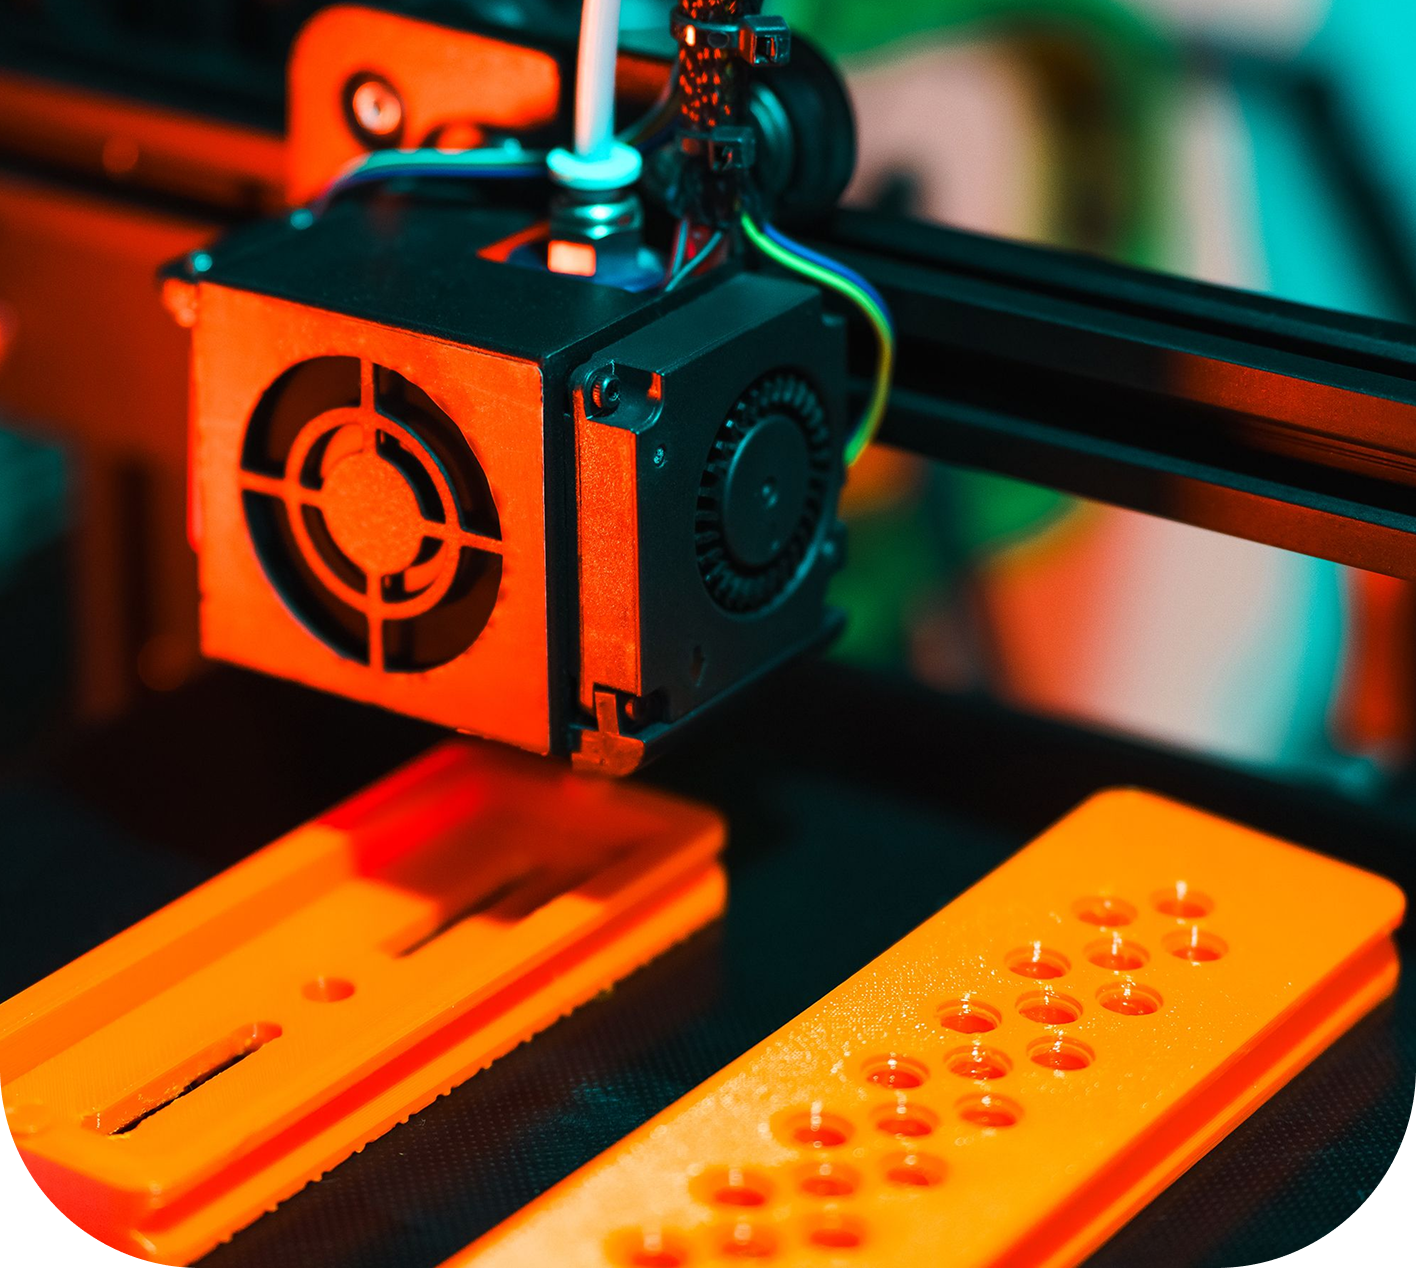
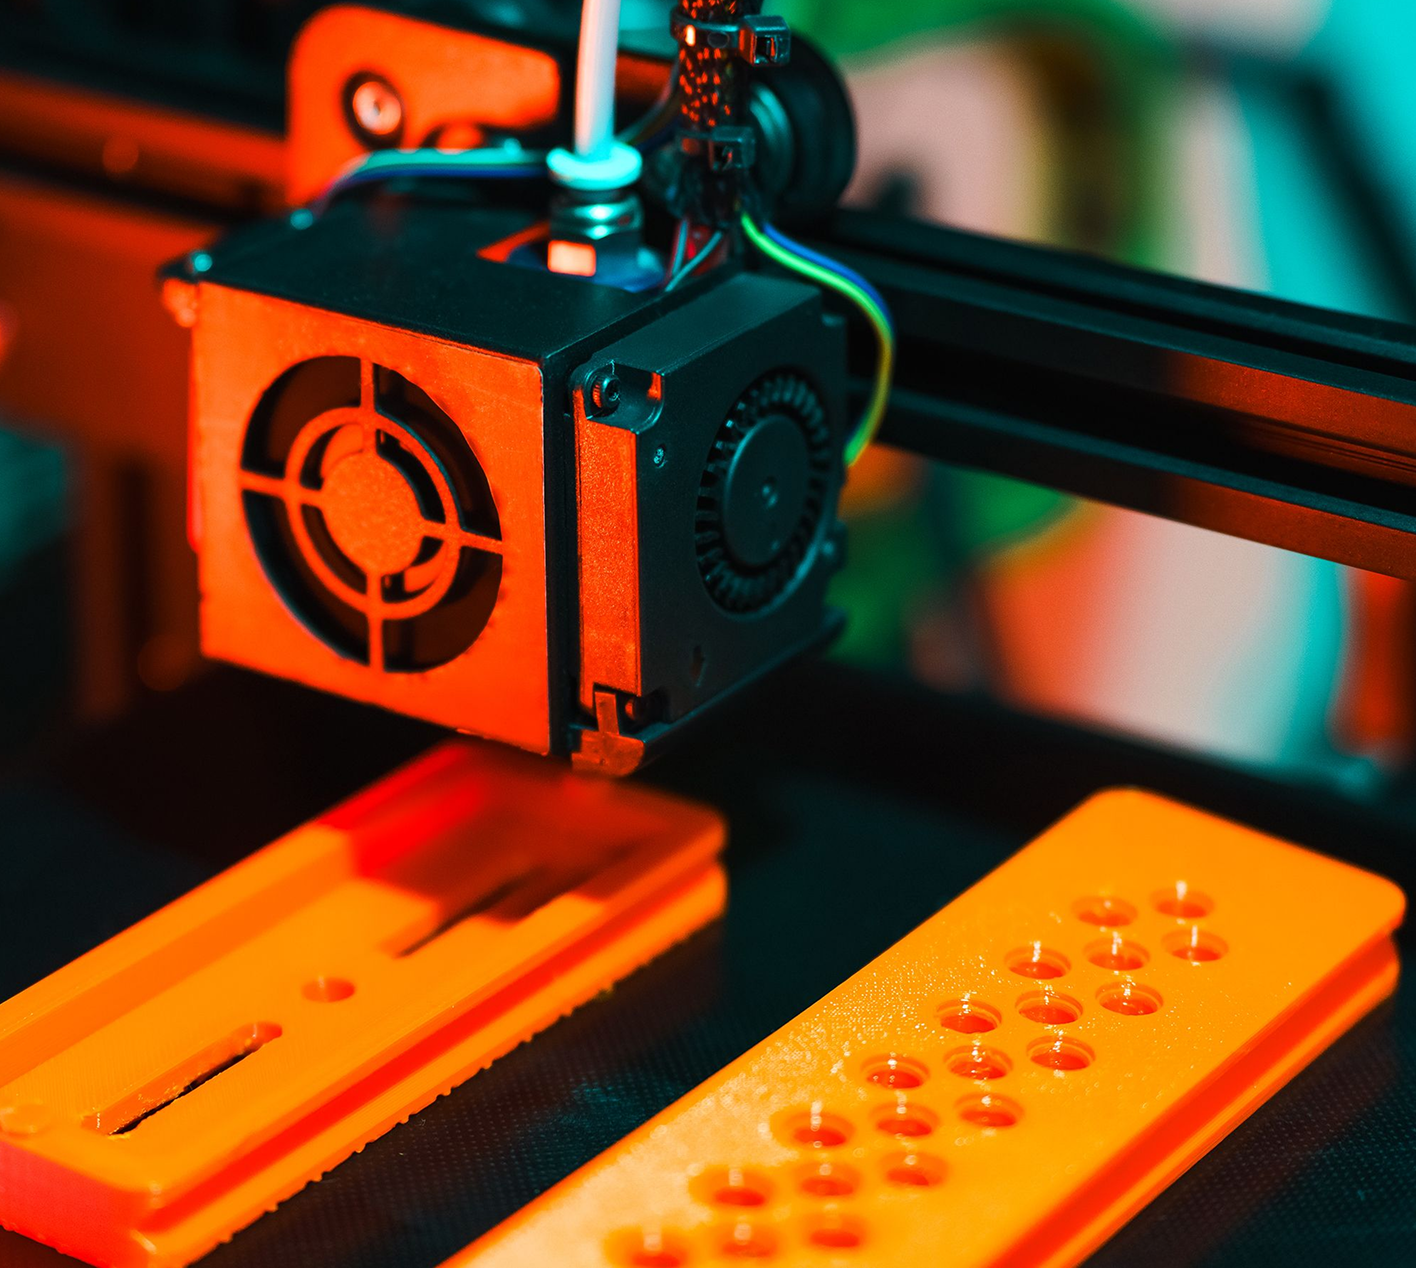
added Card

Changed region(s): [[0.8701, 0.8612, 1.0, 1.0], [0.0, 0.8612, 0.1243, 1.0]]

diff --git a/src/routes/+page.svelte b/src/routes/+page.svelte
@@ -8,11 +8,16 @@
     import gitHub from "$lib/assets/github.svg";
     import mail from "$lib/assets/mail.svg";
 
+    import code from "$lib/assets/code.png";
+    import print from "$lib/assets/3d-print.png";
+    import game from "$lib/assets/gaming.png";
+
     import './layout.css';
 
     import { scrollTo, scrollRef, scrollTop, setGlobalOptions } from 'svelte-scrolling'
 
     import { expoOut } from 'svelte/easing'
+    import Card from "$lib/components/Card.svelte";
 
     // page scroll options
     setGlobalOptions({
@@ -32,6 +37,7 @@
 
 
 <section use:scrollRef={'about'}>
+
     <BusinessCard 
         topMargin="mt-90" 
         img="https://avatars.githubusercontent.com/u/75133905?v=4"
@@ -43,33 +49,41 @@
         <SocialIcon img={mail} link="mailto:zacharysousa@outlook.com?subject=I found your website!" />
     </BusinessCard>
 
-    <br><br><br><br><br><br><br><br><br><br>
-    <br><br><br><br><br><br><br><br><br><br>
-    <br><br><br><br><br><br><br><br><br><br>
-    <br><br><br><br><br><br><br><br><br><br>
 </section>
 
 
 <section use:scrollRef={'services'}>
 
-    <Header>Services</Header>
-    <br><br><br><br><br><br><br><br><br><br>
-    <br><br><br><br><br><br><br><br><br><br>
-    <br><br><br><br><br><br><br><br><br><br>
+    <Header>I can...</Header>
+    
+    <div class="flex justify-around">
+    
+        <Card 
+            img={code}
+            subtitle="BUILD A"
+            title="Website"
+        />
+
+        <Card 
+            img={print}
+            subtitle="FABRICATE A"
+            title="3D Print"
+        />
+
+        <Card 
+            img={game}
+            subtitle="DEVELOP A"
+            title="Video Game"
+        />
+
+    </div>
 
 </section>
 
 <section use:scrollRef={'portfolio'}>
 
     <Header>Portfolio</Header>
-    <br><br><br><br><br><br><br><br><br><br>
-    <br><br><br><br><br><br><br><br><br><br>
-    <br><br><br><br><br><br><br><br><br><br>
 
 </section>
-
-<br><br><br><br><br><br><br><br><br><br>
-<br><br><br><br><br><br><br><br><br><br>
-<br><br><br><br><br><br><br><br><br><br>
 
 

diff --git a/src/lib/components/Card.svelte b/src/lib/components/Card.svelte
@@ -1,0 +1,43 @@
+<script>
+    let { img, subtitle, title } = $props();
+
+</script>
+
+<div class="
+        max-w-3xs
+        ml-5
+        mr-5
+        font-regular
+        text-blue-gray
+    "
+>
+    <div class="bg-off-white rounded-t-4xl">
+        <p class="pl-5 pt-5">{subtitle}</p>
+        <p class="pl-5 pb-5 text-3xl">{title}</p>
+    </div>
+
+    <div class="
+            bg-cover
+            rounded-b-4xl
+        "
+        style="background-image: url({img});"
+    >
+        <div class="
+            bg-linear-to-b
+            from-off-white
+            to-transparent
+            to-30%
+            rounded-b-4xl
+            shadow-md/50
+            shadow-black
+        "
+        >
+            <img src={img} alt="card" class="
+                object-scale-down
+                invisible
+            "   
+        />
+        </div>
+    </div>
+    
+</div>

diff --git a/src/lib/components/SocialIcon.svelte b/src/lib/components/SocialIcon.svelte
@@ -1,6 +1,6 @@
 <script>
     import { Tween } from "svelte/motion"; 
-    import { elasticOut } from 'svelte/easing'
+    import { elasticOut } from 'svelte/easing';
 
     let { img, link } = $props();
 
